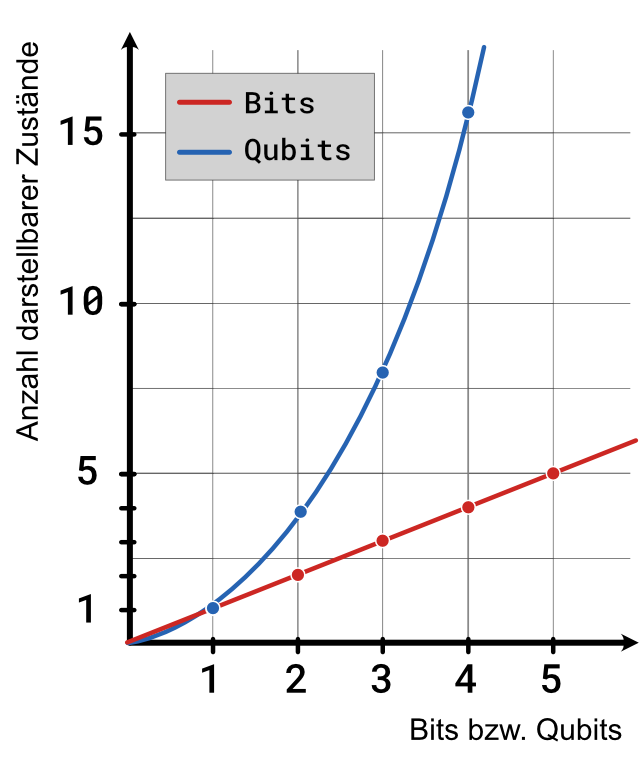
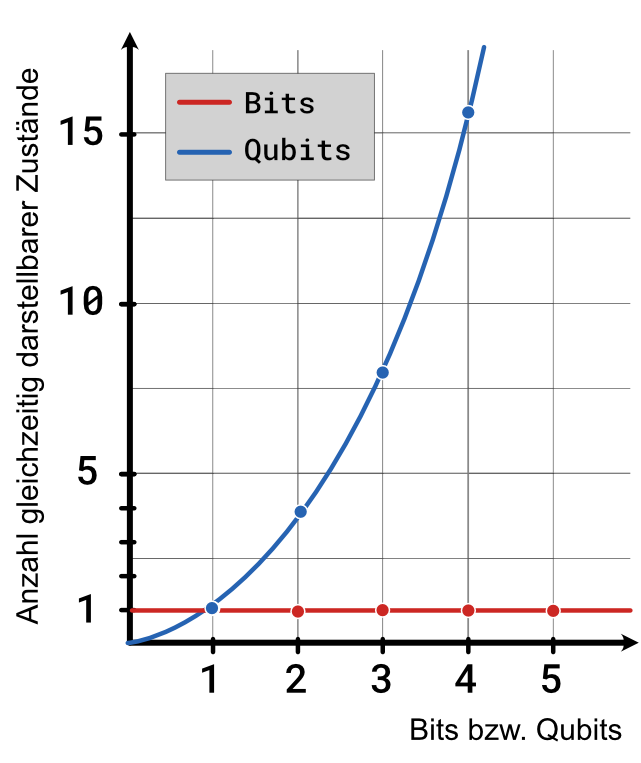
minor corrections

diff --git a/curriculum07.html b/curriculum07.html
@@ -85,11 +85,11 @@
             </p>
             <p class="curriculum-merkkasten">
                 Während ein klassischer Computer mit \(n\) Bits nur einen Zustand darstellen kann, kann ein Quantencomputer 
-                mit \(n\) Qubits \(2^n\) Zustände gleichzeitig repräsentieren, wobei jedem Zustand 
+                mit \(n\) Qubits \(2^n\) Zustände <b>gleichzeitig</b> repräsentieren, wobei jedem Zustand 
                 eine bestimmte Wahrscheinlichkeit zugeordnet ist.
             </p>
             <p>
-                Mit 2 Qubits lassen sich zunächst nur 
+                Mit 2 Qubits lassen sich zunächst nur gleichzeitig 
                 4 Zustände darstellen, bei 3 Qubits erhöht sich diese Zahl auf 8 und bei 4 Qubits sind es sogar 16 
                 (Schau dir dazu den Schaltkreis unten an!).
                 Schon mit 300 Qubits kann man mehr Zustände gleichzeitig darstellen als es Teilchen im Universium gibt.
@@ -97,8 +97,8 @@
             <img src="curriculum/anzahl-darstellbarer-zustände.png" 
                  style="display: block; width: 50%; margin-left: auto; margin-right: auto;" />
             <p>
-                Wahnsinn oder? Mit \(n\) Qubit lassen sich also theoretisch \(2^n\) Zustände auf einmal einnehmen, 
-                messen kann man aber trotzdem nur einen. Daher brauchen wir clevere Algorithmen, die die Besonderheiten 
+                Wahnsinn oder? Mit \(n\) Qubit lässt sich also ein Zustand herstellen, der eine Superposition aus \(2^n\) 
+                Zustände beschreibt, Messen kann man aber trotzdem nur einen von ihnen. Daher brauchen wir clevere Algorithmen, die die Besonderheiten 
                 von Qubits nutzen und dafür sorgen, dass das richtige Messergebnis aus diesen \(2^n\) Zuständen sehr wahrscheinlich wird. 
                 Mit den richtigen Algorithmen könnten Quantencomputer dann u.a. in der 
                 Erforschung neuer Medikamente und Impfstoffe, 

diff --git a/curriculum05.html b/curriculum05.html
@@ -254,7 +254,7 @@
     //  inside anything with the class 'Q-circuit-palette'.
     Array.from(document.querySelectorAll('.Q-circuit-palette')).forEach(
       function (el) {
-        Q.Circuit.Editor.createPalette(el, (gates = 'HX*'))
+        Q.Circuit.Editor.createPalette(el, (gates = '*XH'))
       }
     )
 

diff --git a/curriculum04.html b/curriculum04.html
@@ -211,7 +211,7 @@
       <div class="curriculum-spacer"></div>
 
       <div class="">
-        <div class="Q-circuit-palette" data-gates="HX*"></div>
+        <div class="Q-circuit-palette" data-gates="*XH"></div>
         <div id="circuit-H"></div>
         <button
           class="Q-button"
